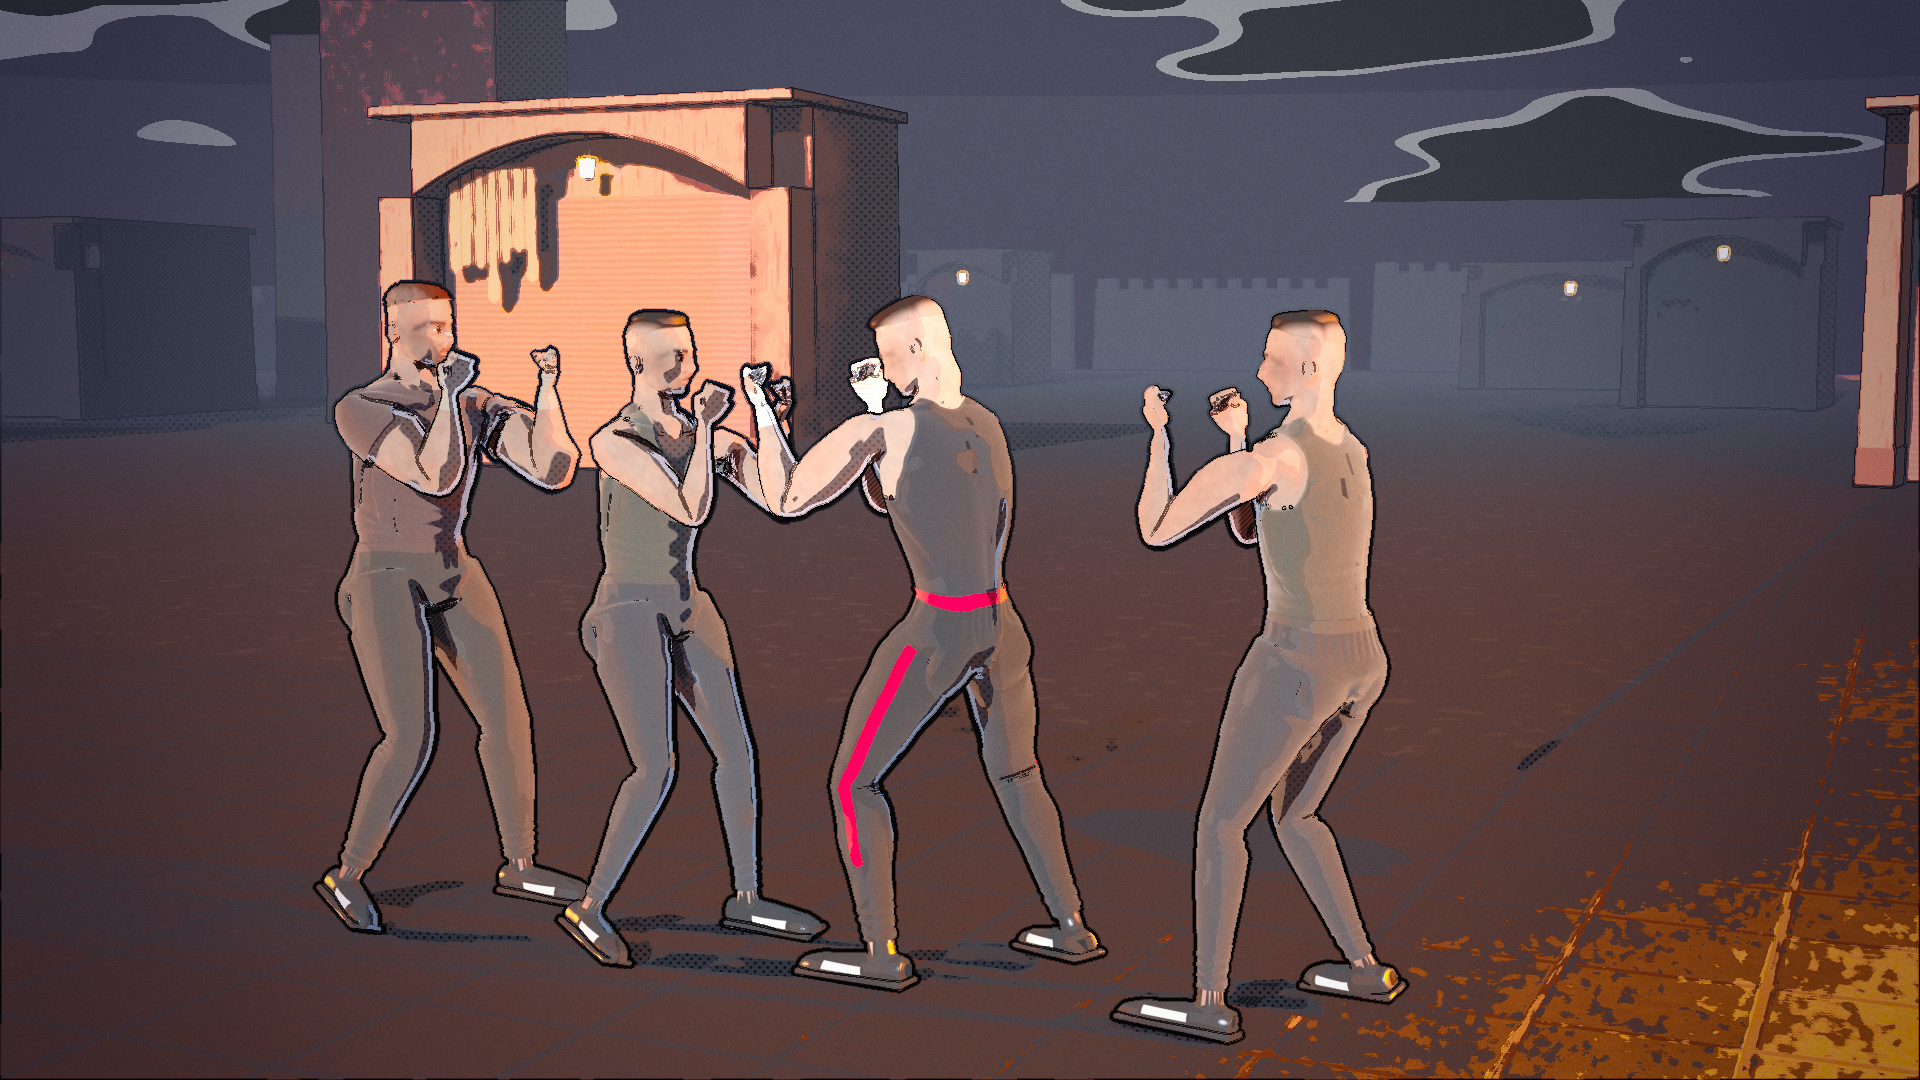
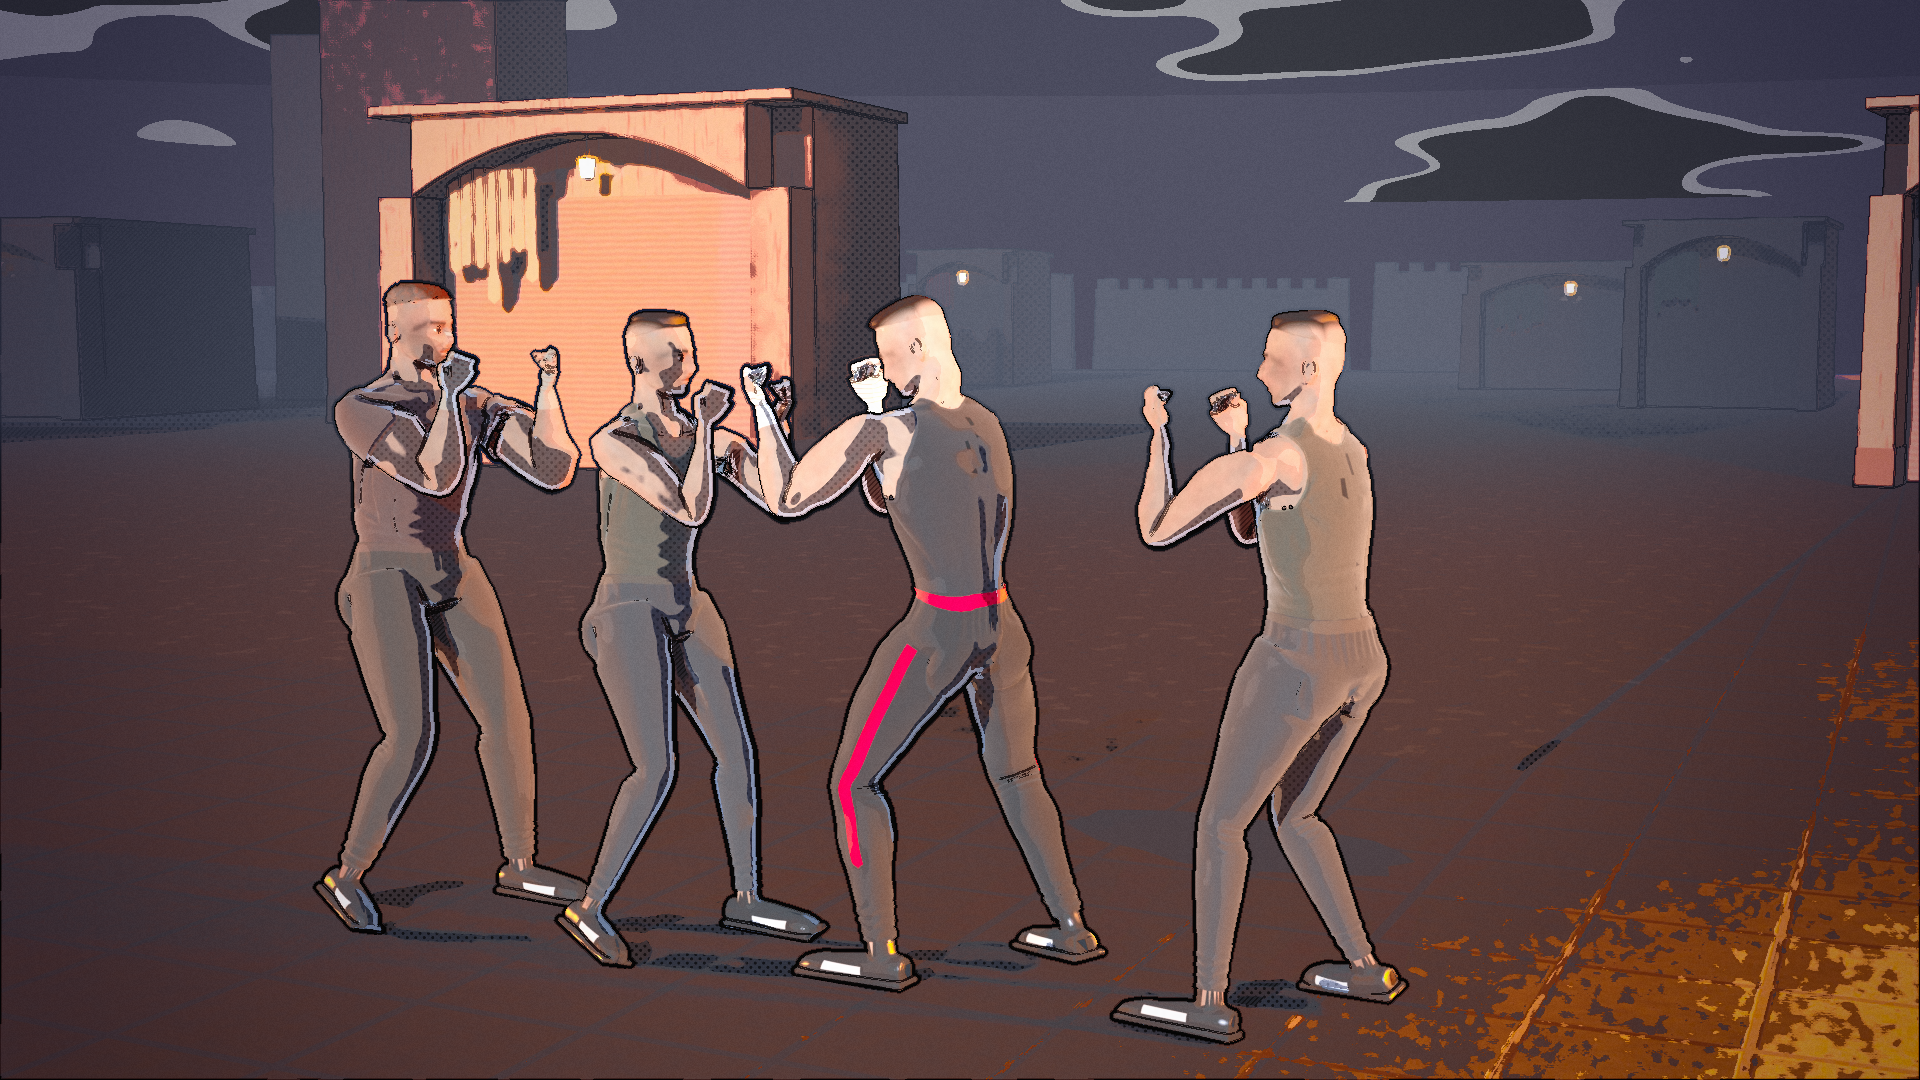
Saud Fighter UE5: the shadow on the men -- their terminator 0.68 -> 0.80
On the souq fight at 1080 the shadow was 10.8 percent of the fighters'
skin and kit: scattered specks round one pale tone. At 0.80 it is 17.1
percent, the dark side of each arm, torso and face as one shape with the
dot screen on it, the edge still hard. 0.85 and over fail the rim rule
(none on the side the key lights). The look's checks pass and six of six
shadow sabotages are caught. Only souq-fight-anime.png is re-rendered.
Nothing has been built in an engine.

Claude-Session: https://claude.ai/code/session_01PaUsieAzVn846zAe5Yo99k

diff --git a/projects/saud-fighter-ue5/Tools/look/anime_look.py b/projects/saud-fighter-ue5/Tools/look/anime_look.py
@@ -210,8 +210,15 @@ LOOK = {
     # on the man, where the dark alone had 81 % of a souq fighter lit. The
     # world keeps 0.56: the souq floor sits at T 0.70-0.90 and one 0.70
     # threshold cut it into speckle.
+    # 2026-11-04 ("fix shadow", the shadow on the men): 0.68 -> 0.80. On the
+    # souq fight at 1080 (the cached passes of that render) the shadow was
+    # 10.8 % of the fighters' skin and kit, scattered specks round a pale
+    # one-tone body; at 0.80 it is 17.1 %, the dark side of each arm, torso
+    # and face one shape with the dot screen on it. 0.85 and over put the
+    # key-lit side's grazing edges into shadow too, and the rim rule ("none
+    # on the side the key lights") fails; 0.90 reads best but is that.
     "T_SHADOW": 0.56,
-    "T_SHADOW_FIGHTER": 0.68,
+    "T_SHADOW_FIGHTER": 0.80,
     "T_DEEP": 0.14,
     "T_HIGHLIGHT": 1.90,     # only real glare: lower, it spotted every face
     "SOFT": 0.020,          # half-width of each terminator, for antialiasing

diff --git a/projects/saud-fighter-ue5/CLAUDE.md b/projects/saud-fighter-ue5/CLAUDE.md
@@ -5719,6 +5719,27 @@ Unreal. **Found by its first run on this project, not fixed:**
 `Content/Data/DT_Sounds.csv` row 43 (`Music_Boss`) has an unquoted comma
 in its Description, so the row reads as 11 columns against 10.
 
+## The shadow on the men -- 2026-11-04
+
+Asked as "fix shadow", settled as the shadow on the fighters. Measured on
+the souq fight at 1080 through the look (`Tools/blender/anime_preview.py`):
+the men's shadow was 10.8 % of their skin and kit -- scattered specks and
+broken dashes round one pale tone, the shadow side only 10 L* darker than
+the lit. `T_SHADOW_FIGHTER` (the terminator a fighter's tones are cut at,
+`Tools/look/anime_look.py`) 0.68 -> 0.80: 17.1 %, the dark side of each
+arm, torso and face one shape with the dot screen on it, still a hard edge
+(1.8 % of the men's pixels in the antialiasing band). Tried on the cached
+render passes: `SMOOTH_PX` 6 and `SOFT` 0.010 changed nothing that shows;
+0.90 reads best (23.4 %) but 0.85 and over put the key-lit side's grazing
+edges into shadow, and the rim rule "none on the side the key lights"
+fails. The men's lift (`FIGHTER_LEVEL`) is untouched. Checked: the look's
+checks pass; `--bite --only lit_men,no_rim,grey_shadows,world_as_fighter,
+flat_men,kneeless_men` 6 of 6 caught. Re-rendered: `Docs/renders/
+souq-fight-anime.png` only; the hit, fire, street, gate and men's frames
+are still at the old threshold. **Not verified:** no engine has built the
+material (the HLSL takes the same number); a judgement from one scene's
+crops -- the other districts and the title have not been looked at.
+
 ## Working rules
 
 - **Don't add things that were not asked for.** Build the requested change and
